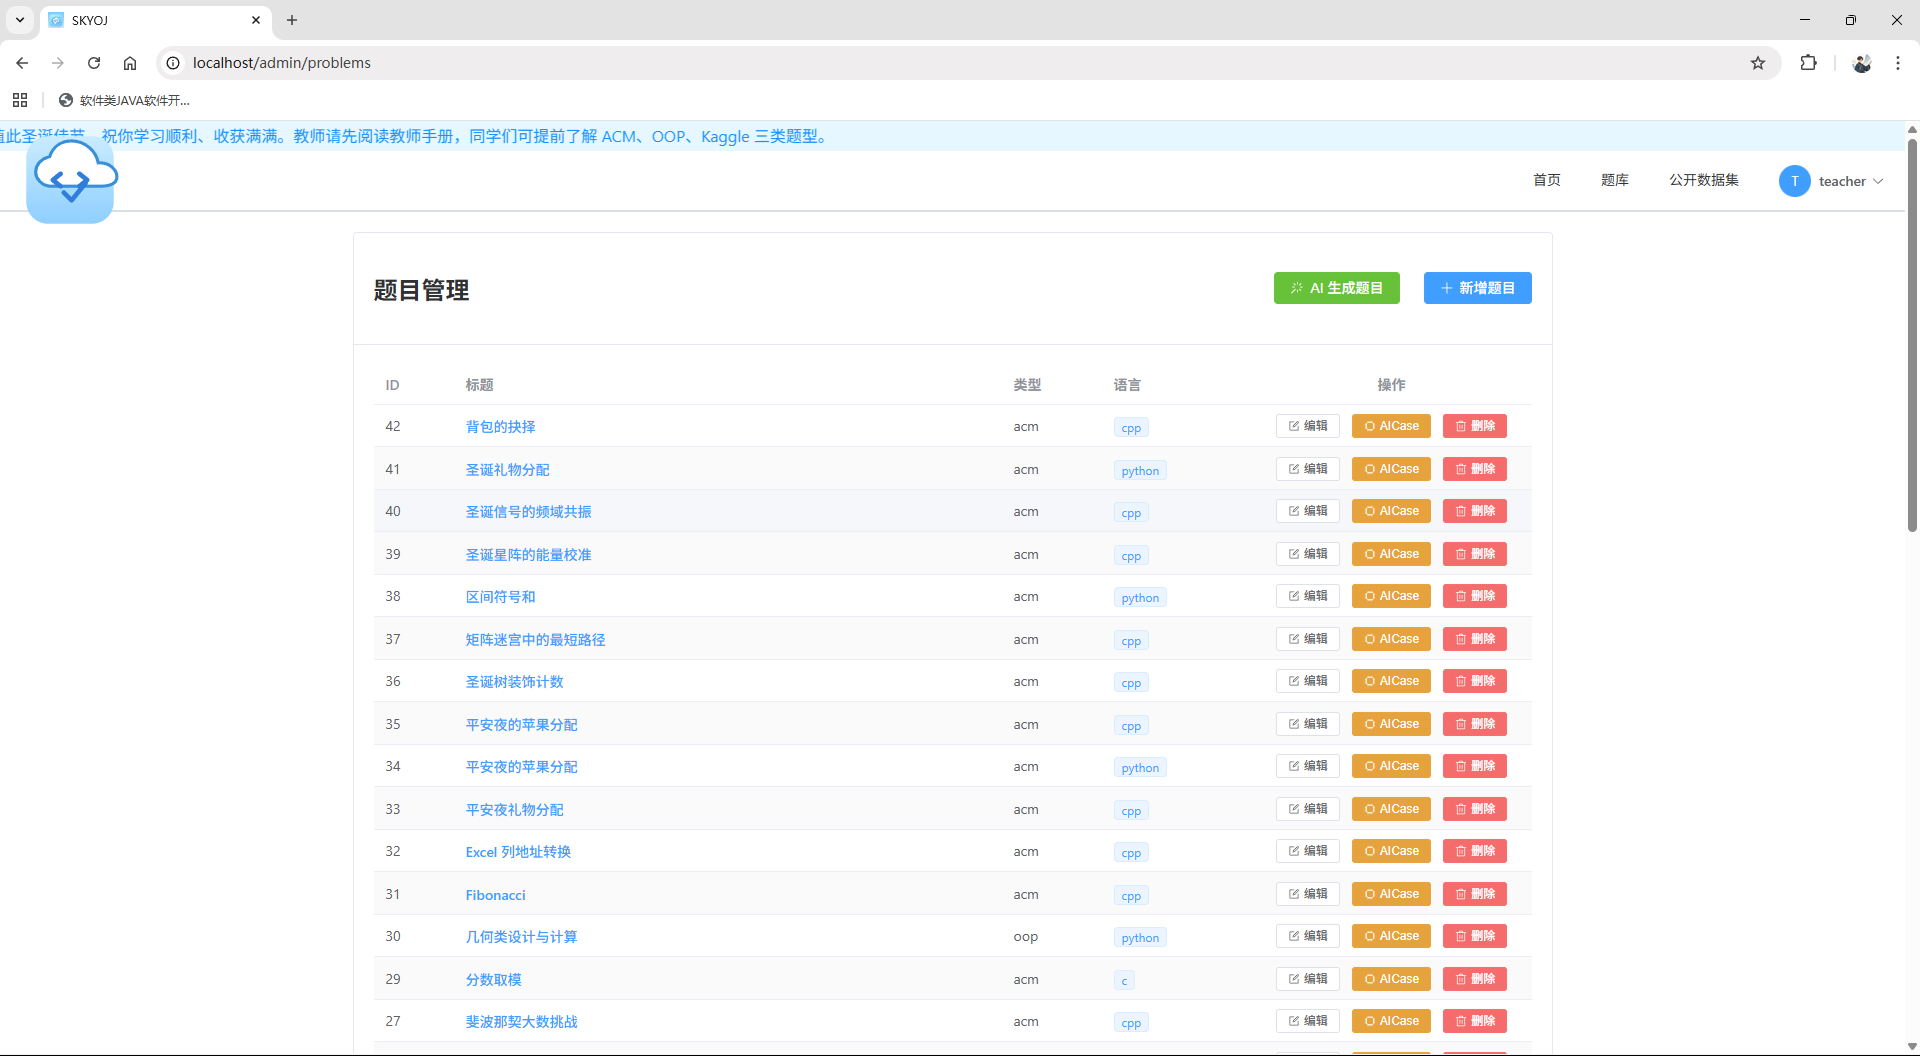
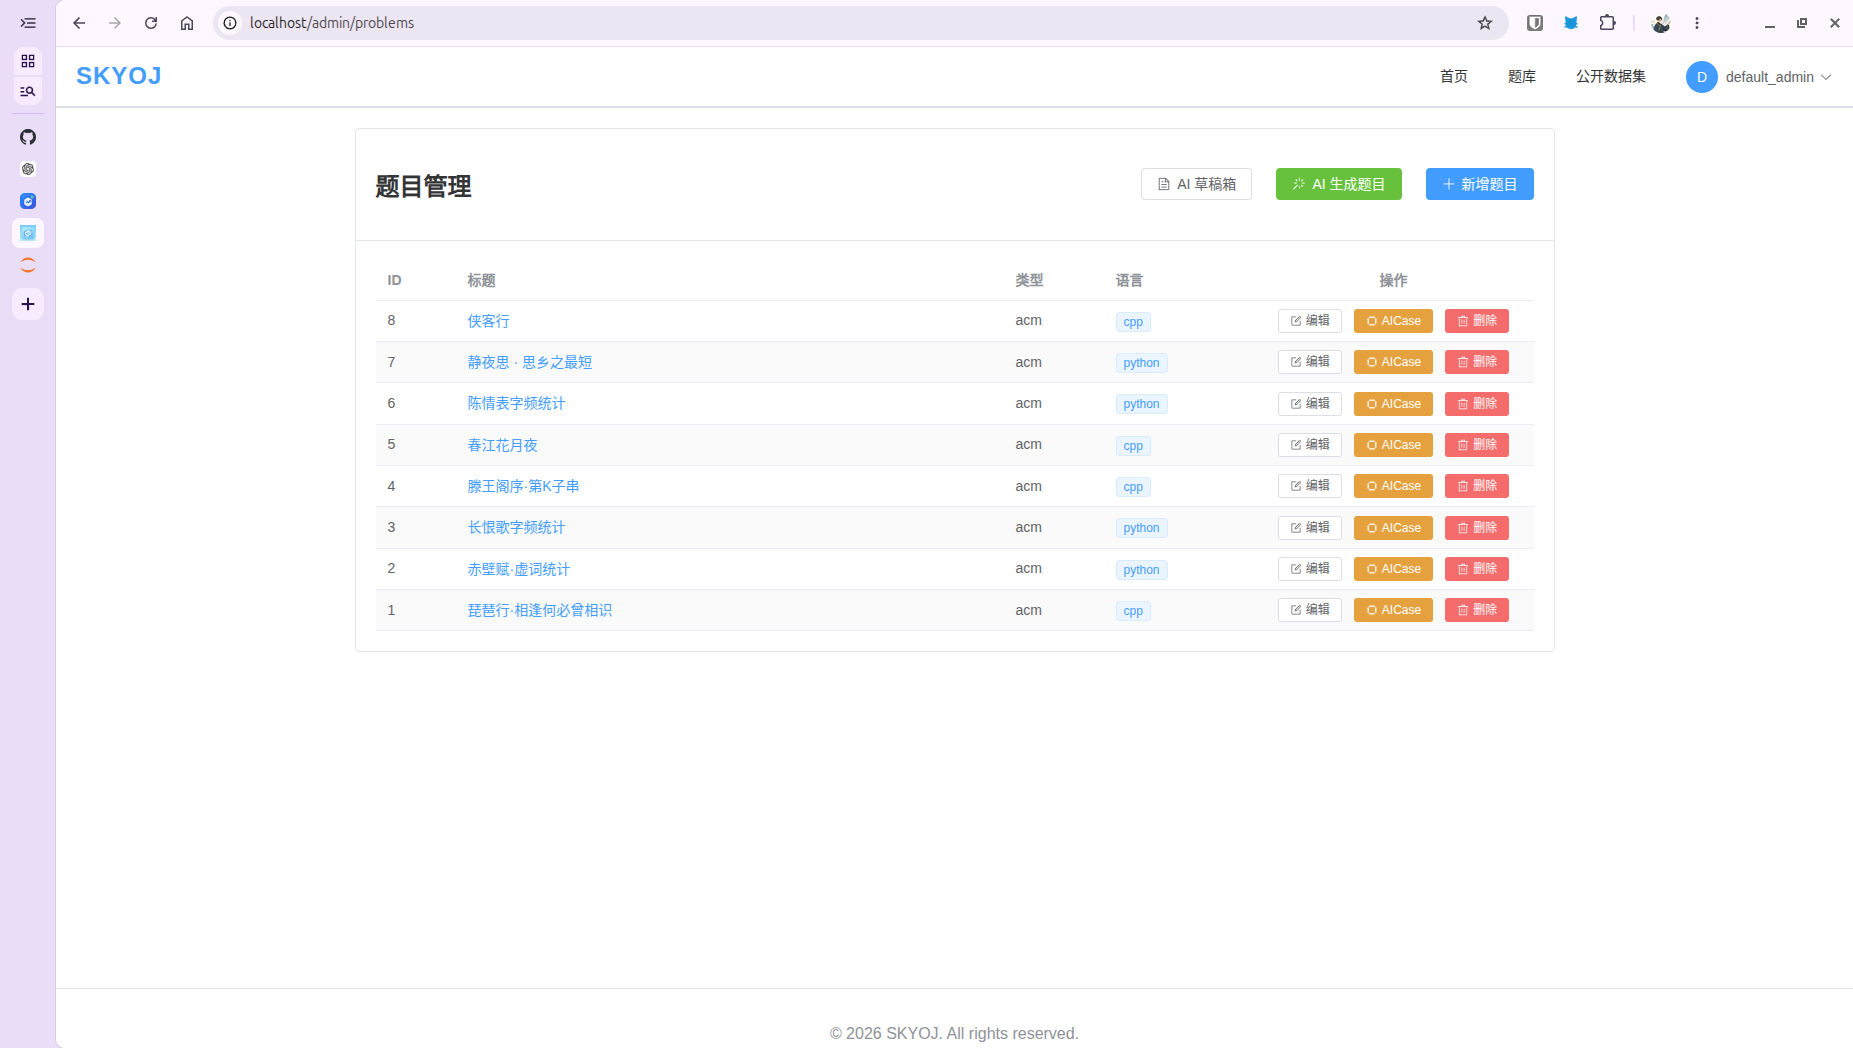
docs: 根据新截图重写 README 系统截图与 AI 特性描述
- 移除已删除的 public-datasets.png 引用，新增 AI 草稿箱截图 problem-draft.png
- 为每张截图补充说明文字并重排顺序
- 新增 AI 辅助出题特性说明（异步生成题目与测例脚本、草稿箱应用）
- README_en.md 同步更新并移除不存在的 project-timeline gif 引用

diff --git a/README_en.md b/README_en.md
@@ -35,6 +35,9 @@ Breaks the limitations of traditional algorithm problems to meet diverse teachin
 - **Smart Tutor**:
   - Integrated **DeepSeek/OpenAI** interfaces.
   - Employs **CoT (Chain of Thought)** and **Role-Playing** prompt engineering to guide students in analyzing logical flaws rather than providing direct answers.
+- **AI Problem Generation**:
+  - Teachers provide a background and difficulty, and the LLM auto-generates complete problems (ACM / OOP / Kaggle) and test scripts.
+  - Tasks run asynchronously and land in the **AI Draft Box**, where results can be previewed, test data executed, and drafts applied as real problems — no long waits on the submission page.
 
 ### 3. Enterprise-Grade Architecture
 - **Cloud-Native Architecture**: Orchestrated based on Docker Compose, achieving complete decoupling of Web services, databases, and evaluation sandboxes.
@@ -44,8 +47,6 @@ Breaks the limitations of traditional algorithm problems to meet diverse teachin
   - **Resource Quotas**: Strictly limits CPU, memory, and PID counts based on Linux Cgroups to prevent Fork bombs and resource exhaustion attacks.
 
 ---
-![project-timeline-1.gif](images/project-timeline-1.gif)
-![project-timeline-2.gif](images/project-timeline-2.gif)
 ## Tech Stack
 
 | Module | Technology Selection | Description |
@@ -257,13 +258,26 @@ uv run python -m pytest -q backend/tests
 
 ## System Screenshots
 
-![problem-detail-editor.png](images/problem-detail-editor.png)
 ![homepage-landing.png](images/homepage-landing.png)
-![public-datasets.png](images/public-datasets.png)
+*Homepage: open-source OJ landing page highlighting multi-mode judging and AI assistance*
+
 ![problem-list.png](images/problem-list.png)
-![teacher-dashboard.png](images/teacher-dashboard.png)
-![submission-result.png](images/submission-result.png)
+*Problem list: filter by problem type and search by name, with allowed languages and time/memory limits*
+
+![problem-detail-editor.png](images/problem-detail-editor.png)
+*Problem detail with online coding: Monaco Editor delivers an IDE-level experience*
+
+![problem-draft.png](images/problem-draft.png)
+*AI Draft Box: async problem generation and test-script generation tasks, preview and apply results as real problems*
+
 ![admin-problem-management.png](images/admin-problem-management.png)
+*Problem administration: teachers can add, edit, and delete problems, and generate problems/test data with AI*
+
+![teacher-dashboard.png](images/teacher-dashboard.png)
+*Plagiarism log management: review similarity check results and alerts*
+
+![submission-result.png](images/submission-result.png)
+*Submission result: per-case judge feedback (Judge Feedback)*
 
 ---
 

diff --git a/README.md b/README.md
@@ -35,6 +35,9 @@
 - **AI 助教 (Smart Tutor)**：
   - 集成 **DeepSeek/OpenAI** 接口。
   - 采用 **CoT (思维链)** 与 **角色扮演** 提示词工程，引导学生分析逻辑漏洞，而非直接提供答案。
+- **AI 辅助出题 (AI Problem Generation)**：
+  - 教师输入背景与难度，即可由 LLM 自动生成完整题目（ACM / OOP / Kaggle）与测例脚本。
+  - 任务异步执行并进入 **AI 草稿箱**（Draft Box），完成后可预览、执行测试数据并一键应用为正式题目，无需在提交页长时间等待。
 
 ### 3. 企业级系统架构
 - **云原生架构**：基于 Docker Compose 编排，实现 Web 服务、数据库、评测沙箱的完全解耦。
@@ -241,13 +244,26 @@ uv run python -m pytest -q backend/tests
 
 ## 系统截图
 
-![problem-detail-editor.png](images/problem-detail-editor.png)
 ![homepage-landing.png](images/homepage-landing.png)
-![public-datasets.png](images/public-datasets.png)
+*首页：开源在线评测平台落地页，突出多评测模式与 AI 辅助能力*
+
 ![problem-list.png](images/problem-list.png)
-![teacher-dashboard.png](images/teacher-dashboard.png)
-![submission-result.png](images/submission-result.png)
+*题目列表：支持按题型筛选与名称搜索，展示允许语言、时间与内存限制*
+
+![problem-detail-editor.png](images/problem-detail-editor.png)
+*题目详情与在线编程：Monaco Editor 提供 IDE 级编码体验*
+
+![problem-draft.png](images/problem-draft.png)
+*AI 草稿箱：异步出题与测例生成任务统一管理，完成后可预览并应用为正式题目*
+
 ![admin-problem-management.png](images/admin-problem-management.png)
+*题目管理后台：教师可新增、编辑、删除题目，并调用 AI 生成题目与测试用例*
+
+![teacher-dashboard.png](images/teacher-dashboard.png)
+*查重日志管理：查看提交相似度比对结果与告警*
+
+![submission-result.png](images/submission-result.png)
+*提交结果：逐用例展示判题反馈（Judge Feedback）*
 
 ---
 
